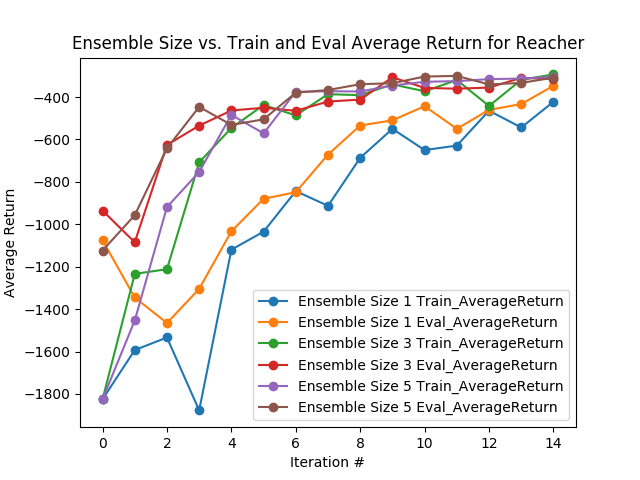
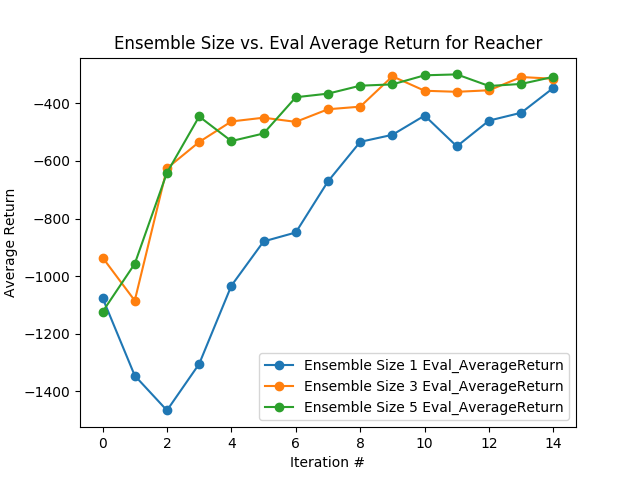
new plots

diff --git a/hw4/visualize.py b/hw4/visualize.py
@@ -69,9 +69,8 @@ logdir = '{}/hw4_q3_cheetah_cheetah-cs285-v0_03-11-2021_11-58-38/events*'.format
 eventfile = glob.glob(logdir)[0]
 
 X, Y = get_section_results(eventfile)
-plt.plot(range(len(X)), X, label='Train_AverageReturn', marker='o')
 plt.plot(range(len(Y)), Y, label='Eval_AverageReturn', marker='o')
-plt.title('Train and Eval Average Return for Cheetah')
+plt.title('Eval Average Return for Cheetah')
 plt.xlabel('Iteration #')
 plt.ylabel('Average Return')
 plt.legend()
@@ -83,22 +82,19 @@ plt.close()
 logdir = '{}/hw4_q4_reacher_ensemble1_reacher-cs285-v0_03-11-2021_11-04-27/events*'.format(root_folder)
 eventfile = glob.glob(logdir)[0]
 X, Y = get_section_results(eventfile)
-plt.plot(range(len(X)), X, label='Ensemble Size 1 Train_AverageReturn', marker='o')
 plt.plot(range(len(Y)), Y, label='Ensemble Size 1 Eval_AverageReturn', marker='o')
 
 logdir = '{}/hw4_q4_reacher_ensemble3_reacher-cs285-v0_03-11-2021_11-04-32/events*'.format(root_folder)
 eventfile = glob.glob(logdir)[0]
 X, Y = get_section_results(eventfile)
-plt.plot(range(len(X)), X, label='Ensemble Size 3 Train_AverageReturn', marker='o')
 plt.plot(range(len(Y)), Y, label='Ensemble Size 3 Eval_AverageReturn', marker='o')
 
 logdir = '{}/hw4_q4_reacher_ensemble5_reacher-cs285-v0_03-11-2021_11-04-21/events*'.format(root_folder)
 eventfile = glob.glob(logdir)[0]
 X, Y = get_section_results(eventfile)
-plt.plot(range(len(X)), X, label='Ensemble Size 5 Train_AverageReturn', marker='o')
 plt.plot(range(len(Y)), Y, label='Ensemble Size 5 Eval_AverageReturn', marker='o')
 
-plt.title('Ensemble Size vs. Train and Eval Average Return for Reacher')
+plt.title('Ensemble Size vs. Eval Average Return for Reacher')
 plt.xlabel('Iteration #')
 plt.ylabel('Average Return')
 plt.legend()
@@ -110,16 +106,14 @@ plt.close()
 logdir = '{}/hw4_q4_reacher_numseq100_reacher-cs285-v0_03-11-2021_02-16-23/events*'.format(root_folder)
 eventfile = glob.glob(logdir)[0]
 X, Y = get_section_results(eventfile)
-plt.plot(range(len(X)), X, label='Candidate Sequences 100 Train_AverageReturn', marker='o')
 plt.plot(range(len(Y)), Y, label='Candidate Sequences 100 Eval_AverageReturn', marker='o')
 
 logdir = '{}/hw4_q4_reacher_numseq1000_reacher-cs285-v0_03-11-2021_11-04-36/events*'.format(root_folder)
 eventfile = glob.glob(logdir)[0]
 X, Y = get_section_results(eventfile)
-plt.plot(range(len(X)), X, label='Candidate Sequences 1000 Train_AverageReturn', marker='o')
 plt.plot(range(len(Y)), Y, label='Candidate Sequences 1000 Eval_AverageReturn', marker='o')
 
-plt.title('# Candidate Action Sequences vs. Train and Eval Average Return for Reacher')
+plt.title('# Candidate Action Sequences vs. Eval Average Return for Reacher')
 plt.xlabel('Iteration #')
 plt.ylabel('Average Return')
 plt.legend()
@@ -131,22 +125,19 @@ plt.close()
 logdir = '{}/hw4_q4_reacher_horizon5_reacher-cs285-v0_03-11-2021_02-15-24/events*'.format(root_folder)
 eventfile = glob.glob(logdir)[0]
 X, Y = get_section_results(eventfile)
-plt.plot(range(len(X)), X, label='Horizon 5 Train_AverageReturn', marker='o')
 plt.plot(range(len(Y)), Y, label='Horizon 5 Eval_AverageReturn', marker='o')
 
 logdir = '{}/hw4_q4_reacher_horizon15_reacher-cs285-v0_03-11-2021_02-15-43/events*'.format(root_folder)
 eventfile = glob.glob(logdir)[0]
 X, Y = get_section_results(eventfile)
-plt.plot(range(len(X)), X, label='Horizon 15 Train_AverageReturn', marker='o')
 plt.plot(range(len(Y)), Y, label='Horizon 15 Eval_AverageReturn', marker='o')
 
 logdir = '{}/hw4_q4_reacher_horizon30_reacher-cs285-v0_03-11-2021_11-23-58/events*'.format(root_folder)
 eventfile = glob.glob(logdir)[0]
 X, Y = get_section_results(eventfile)
-plt.plot(range(len(X)), X, label='Horizon 30 Train_AverageReturn', marker='o')
 plt.plot(range(len(Y)), Y, label='Horizon 30 Eval_AverageReturn', marker='o')
 
-plt.title('Horizon Length vs. Train and Eval Average Return for Reacher')
+plt.title('Horizon Length vs. Eval Average Return for Reacher')
 plt.xlabel('Iteration #')
 plt.ylabel('Average Return')
 plt.legend()
@@ -158,22 +149,19 @@ plt.close()
 logdir = '{}/hw4_q5_cheetah_random_cheetah-cs285-v0_03-11-2021_20-08-19/events*'.format(root_folder)
 eventfile = glob.glob(logdir)[0]
 X, Y = get_section_results(eventfile)
-plt.plot(range(len(X)), X, label='Random Shooting Train_AverageReturn', marker='o')
 plt.plot(range(len(Y)), Y, label='Random Shooting Eval_AverageReturn', marker='o')
 
 logdir = '{}/hw4_q5_cheetah_cem_2_cheetah-cs285-v0_04-11-2021_00-09-42/events*'.format(root_folder)
 eventfile = glob.glob(logdir)[0]
 X, Y = get_section_results(eventfile)
-plt.plot(range(len(X)), X, label='CEM 2 Train_AverageReturn', marker='o')
 plt.plot(range(len(Y)), Y, label='CEM 2 Eval_AverageReturn', marker='o')
 
 logdir = '{}/hw4_q5_cheetah_cem_4_cheetah-cs285-v0_04-11-2021_00-09-55/events*'.format(root_folder)
 eventfile = glob.glob(logdir)[0]
 X, Y = get_section_results(eventfile)
-plt.plot(range(len(X)), X, label='CEM 4 Train_AverageReturn', marker='o')
 plt.plot(range(len(Y)), Y, label='CEM 4 Eval_AverageReturn', marker='o')
 
-plt.title('Action Selection vs. Train and Eval Average Return for Cheetah')
+plt.title('Action Selection vs. Eval Average Return for Cheetah')
 plt.xlabel('Iteration #')
 plt.ylabel('Average Return')
 plt.legend()
